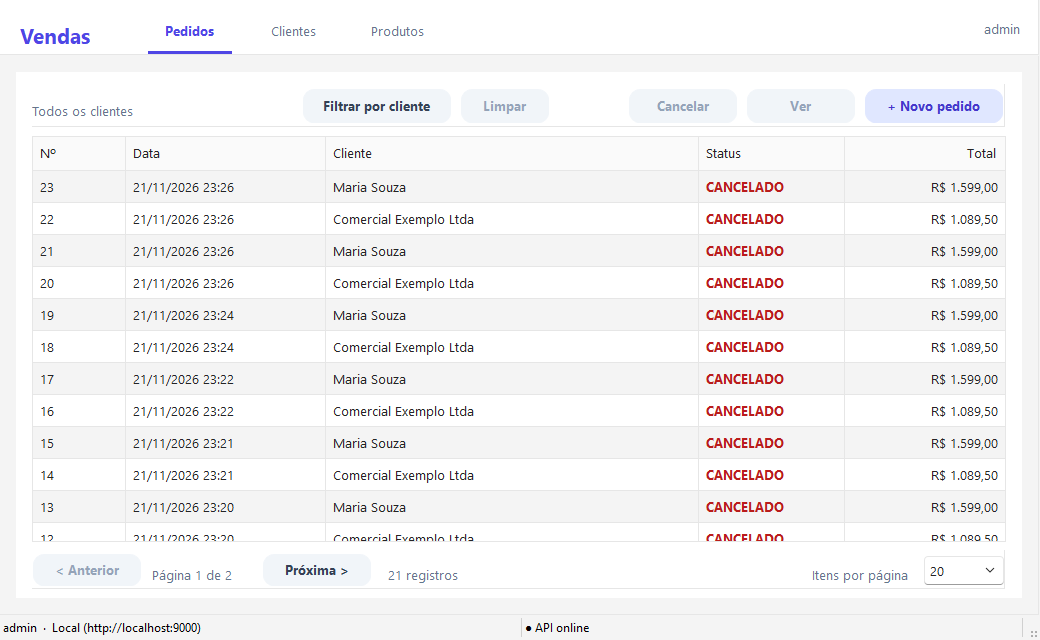
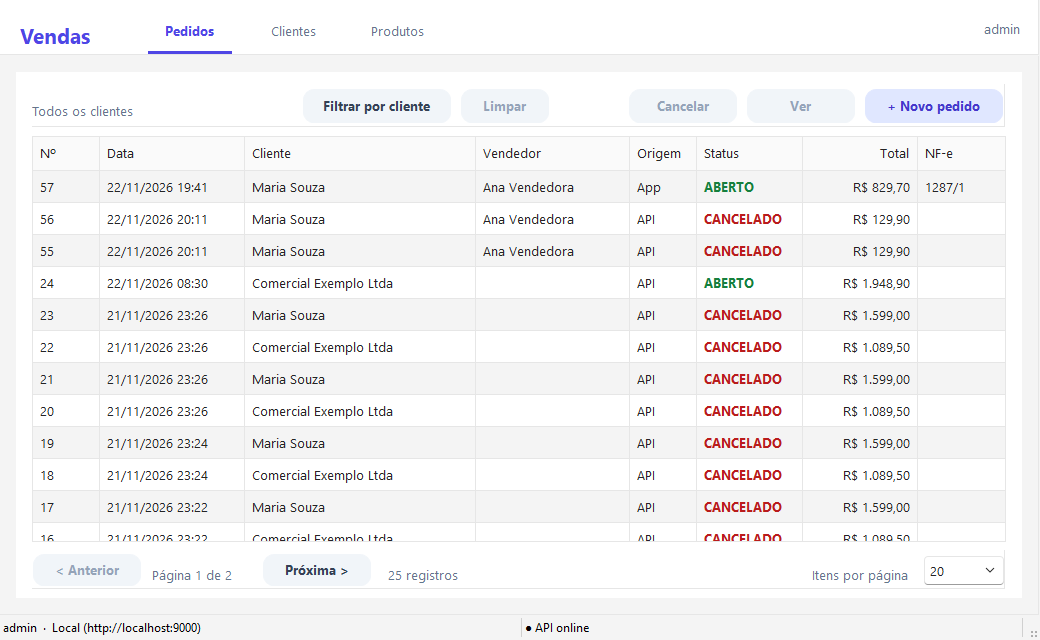
Documenta os campos do app Força de Vendas no cliente

diff --git a/README.md b/README.md
@@ -2,7 +2,7 @@
 
 Cliente desktop em **Delphi (VCL)** com **DevExpress** que consome a **[delphi-horse-api](https://github.com/kauelessa/delphi-horse-api)**: login com JWT, cadastro de clientes e produtos e emissão de pedidos com baixa de estoque.
 
-> Faz parte do meu portfólio, junto com a API (back-end Horse + Firebird) e o [delphi-emissor-nfe](https://github.com/kauelessa/delphi-emissor-nfe): os pedidos criados aqui podem ser **faturados como NF-e** no emissor, que importa o pedido da API e completa os dados fiscais.
+> Faz parte do meu portfólio, junto com a API (back-end Horse + Firebird) e o [delphi-emissor-nfe](https://github.com/kauelessa/delphi-emissor-nfe): os pedidos criados aqui podem ser **faturados como NF-e** no emissor, que importa o pedido da API e completa os dados fiscais. Os pedidos feitos na rua pelo app FireMonkey **delphi-fmx-forca-vendas** (em construção) também aparecem aqui, com vendedor, local e assinatura do cliente.
 
 ![Lista de pedidos](docs/screenshots/pedidos.png)
 
@@ -31,11 +31,11 @@ Cliente desktop em **Delphi (VCL)** com **DevExpress** que consome a **[delphi-h
 | Login | Escolha do servidor (perfil), "lembrar usuário" e "lembrar senha" | `POST /auth/login` |
 | Barra de status | Indicador de API online/offline, consultado a cada 30 s | `GET /health` |
 | Clientes | Lista paginada com busca por nome ou CPF/CNPJ, cadastro, edição e inativação | `GET/POST/PUT/DELETE /clientes` |
-| Produtos | Lista paginada com busca pela descrição, cadastro, edição (inclusive estoque) e inativação | `GET/POST/PUT/DELETE /produtos` |
-| Pedidos | Lista paginada com filtro por cliente, detalhe com itens e cancelamento (devolve estoque) | `GET /pedidos`, `GET /pedidos/:id`, `PATCH /pedidos/:id/cancelar` |
+| Produtos | Lista paginada com busca pela descrição, cadastro, edição (inclusive estoque e código de barras EAN/GTIN, usado na leitura pela câmera do app) e inativação | `GET/POST/PUT/DELETE /produtos` |
+| Pedidos | Lista paginada com filtro por cliente, origem (API ou App), vendedor e NF-e que faturou o pedido; detalhe com itens, observação, local da venda ("Ver no mapa" abre o OpenStreetMap) e assinatura do cliente; cancelamento (devolve estoque) | `GET /pedidos`, `GET /pedidos/:id`, `GET /pedidos/:id/assinatura`, `PATCH /pedidos/:id/cancelar` |
 | Novo pedido | Escolha do cliente e dos produtos, total ao vivo, rascunho automático e envio (baixa estoque) | `POST /pedidos` |
 
-Quando o token expira (ele vale 60 minutos e a API não tem renovação), o sistema pede a senha de novo e repete a chamada que estava em andamento, sem perder o que estava na tela.
+Quando o token expira (ele vale 60 minutos; a renovação por refresh token da API é usada pelo app, não por este cliente), o sistema pede a senha de novo e repete a chamada que estava em andamento, sem perder o que estava na tela.
 
 | | |
 |---|---|
@@ -104,6 +104,7 @@ Abra `tests/DelphiVclClientTests.dpr` (DUnitX, que vem com o RAD Studio) e execu
 - [x] Janela principal com o visual em cartões e indicador de API online
 - [x] Relogin automático quando o token expira
 - [x] Prints e documentação
+- [x] Campos do app Força de Vendas: código de barras, origem, vendedor, NF-e, local e assinatura
 
 ## 👤 Autor
 
